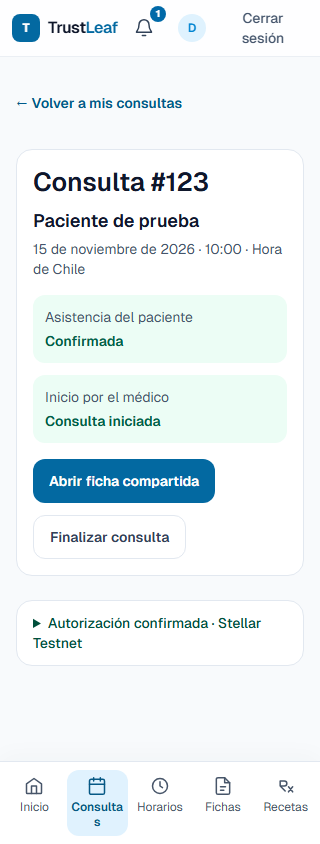
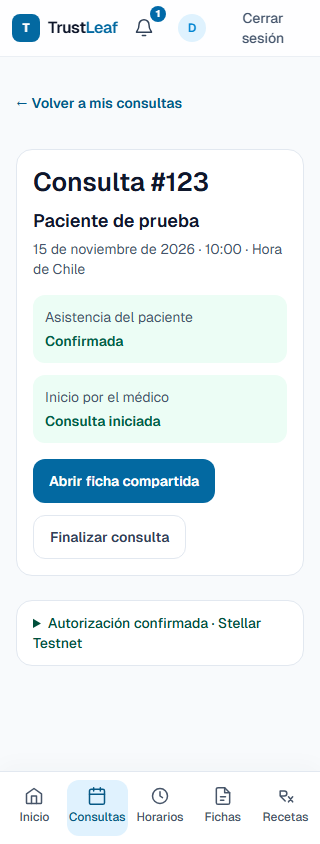
Keep the active mobile navigation label on one line

diff --git a/src/components/private-portal/patient-mobile.module.css b/src/components/private-portal/patient-mobile.module.css
@@ -41,15 +41,16 @@
     gap: 4px;
     min-width: 0;
     min-height: 56px;
-    padding: 6px 2px;
+    padding: 6px 0;
     border-radius: 12px;
     color: #475569;
     text-align: center;
     font-size: 0.75rem;
+    font-weight: 500;
     line-height: 1.25;
     overflow-wrap: anywhere;
   }
-  .mobileNavItem[aria-current=page] { color: #075985; background: #e0f2fe; font-weight: 600; }
+  .mobileNavItem[aria-current=page] { color: #075985; background: #e0f2fe; }
   .portal [data-patient-home] { display: grid; gap: 20px; }
   .portal [data-patient-home] > p { color: #52677a; }
   .portal [data-patient-home-card] { display: flex; align-items: center; gap: 16px; padding: 22px 18px; border: 1px solid #dce8ef; border-radius: 20px; background: white; box-shadow: 0 3px 12px #16304704; }
